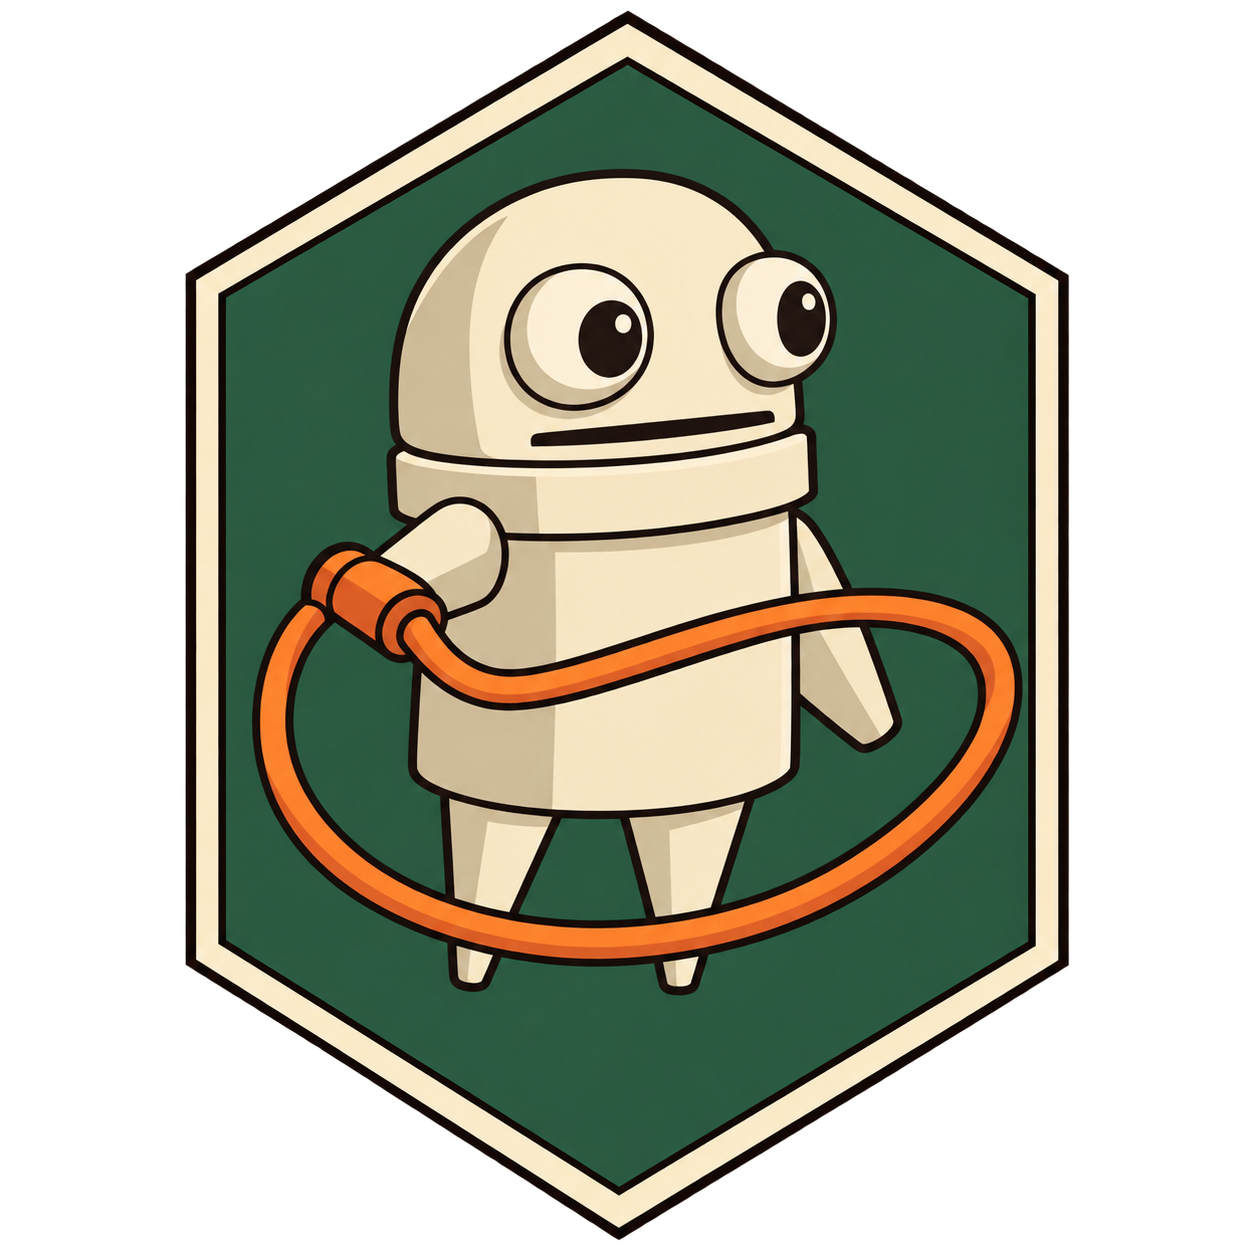
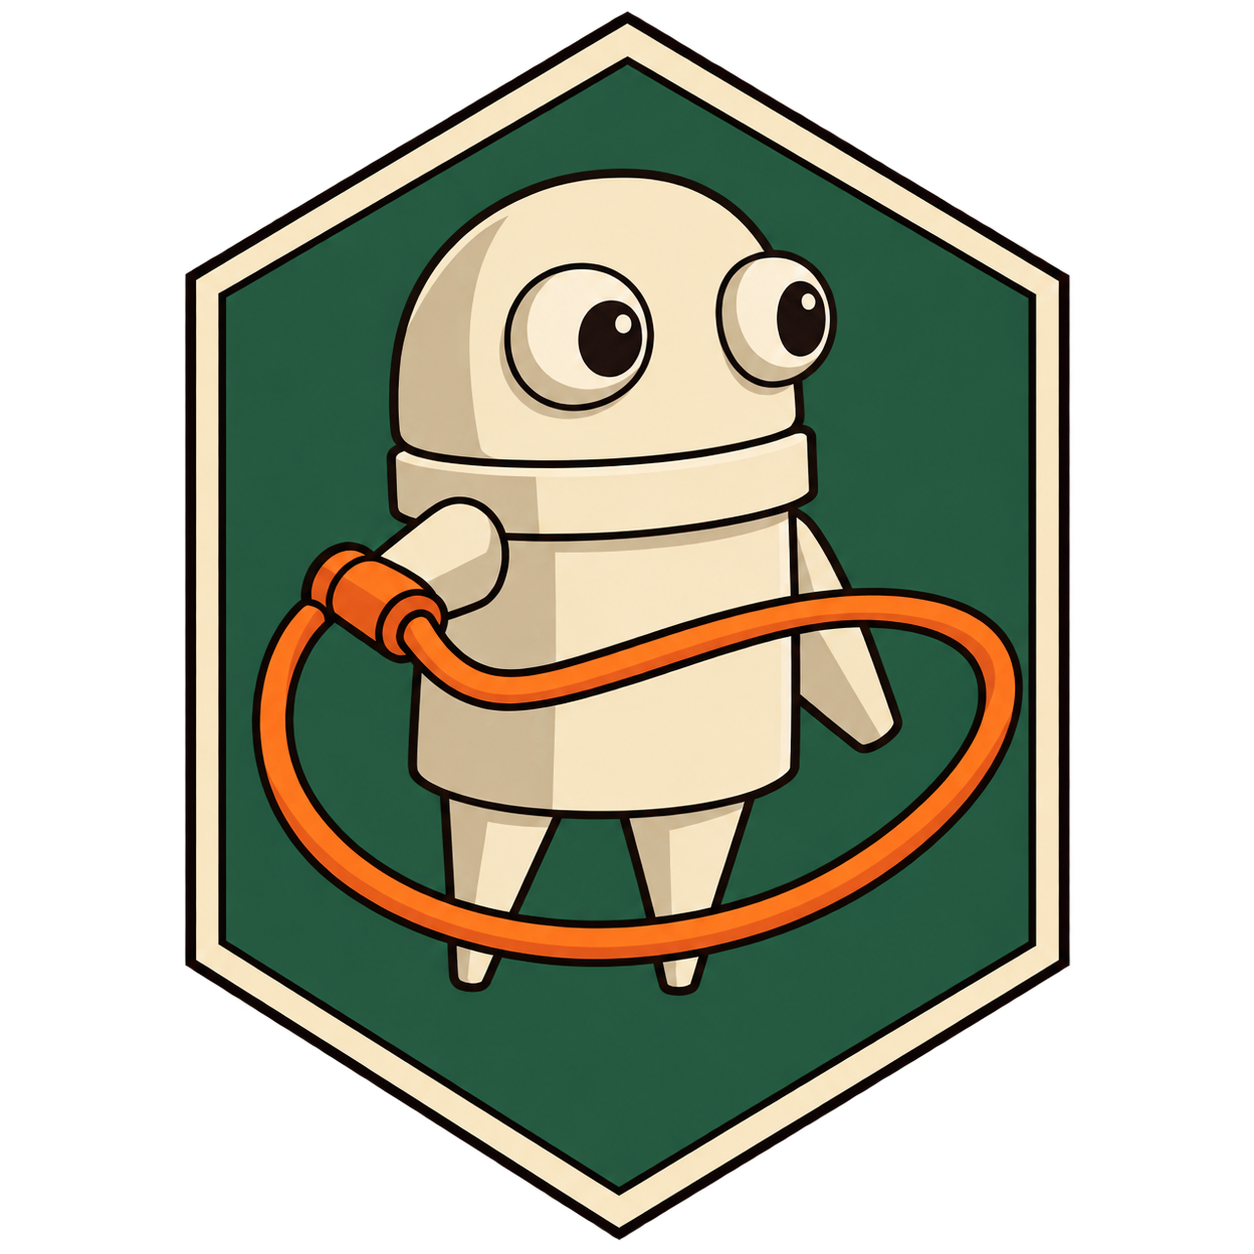
Remove mouths from Rigger and Negotiator emblems

Changed region(s): [[0.4043, 0.311, 0.622, 0.3732]]

diff --git a/ROLE_ICON_GUIDE.md b/ROLE_ICON_GUIDE.md
@@ -12,8 +12,10 @@ and RoleShuffle-S002 (`01a091a3-dc1e-7463-bad9-ef2e5a5fd3d9`), reconfirmed on
 - Match the flat colors, simple shading and dark outlines of the existing set.
 - Use a clear role-specific action or prop; avoid unrelated decoration.
 - Fill the badge well enough to remain recognizable in the HUD.
-- Keep actual Semibot anatomy: dome head, protruding eyes above the mouth slit,
+- Keep actual Semibot anatomy: dome head, protruding eyes,
   a distinct shallow cylindrical jaw/neck band, cylindrical torso and cone legs.
+- Negotiator and Rigger have no mouth, as requested on 2026-10-31. Remove only
+  the facial mouth slit; retain the structural contour of the head and neck band.
 - Arms attach high on the torso, just below the jaw band. Keep them short and
   tapered. Do not add human elbows, wrists, fingers or extra joints.
 - Reference approved original icons such as Tank and Medic for anatomy. Do not
@@ -51,7 +53,7 @@ is neutral and is not recolored as a role category.
 
 Keep a full-resolution master and its generation prompt. Export a 256 × 256 RGBA
 runtime PNG named with the existing role ID convention. Preserve true alpha.
-Inspect the neck band, mouth location, arm attachment and silhouette at full size
+Inspect the neck band, the mouthless faces of Negotiator/Rigger, arm attachment and silhouette at full size
 and at HUD size. Existing icons remain unchanged when adding a new role.
 
 Secret-role icons remain concealed in public documents and unrevealed UI.
